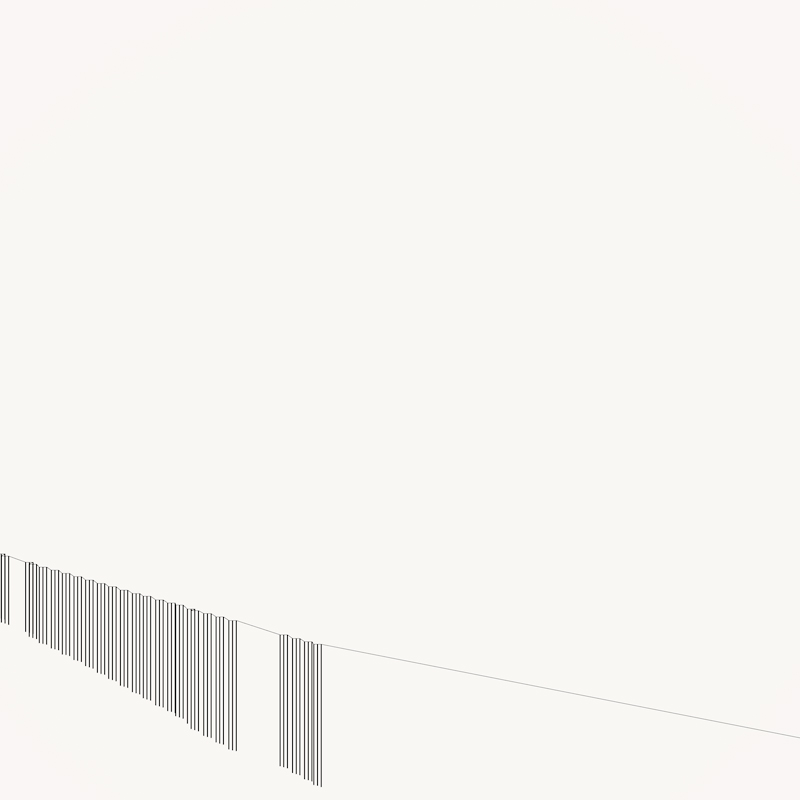
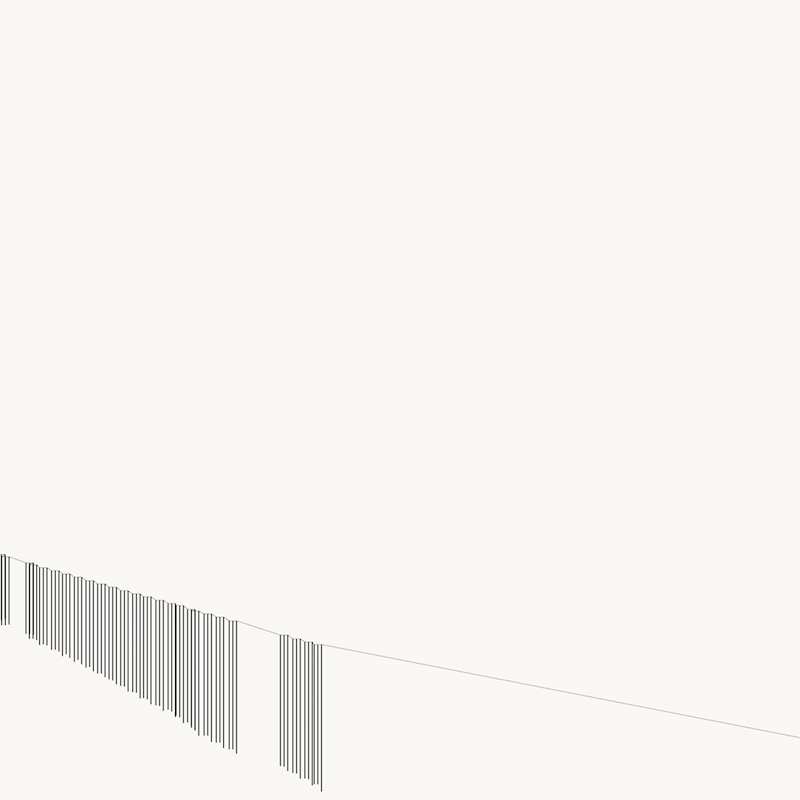
update

Changed region(s): [[0.0, 0.6875, 0.3125, 0.9375], [0.3438, 0.7812, 0.4062, 1.0]]

diff --git a/_posts/2017-12-24-gps-traces-in-lexical-space.md b/_posts/2017-12-24-gps-traces-in-lexical-space.md
@@ -7,10 +7,20 @@ images:
   - ext:    02_20171223_00.png
     width:  1200
     height: 750
-  - ext:    01_20171223_01_B.png
+    cap:    7.04 mi.
+  - ext:    03_20171224_04.png
     width:  1200
     height: 750
+    cap:    21.38 mi.
+  - ext:    04_20171224_00.png
+    width:  1200
+    height: 750
+    cap:    11.51 mi.
+  - ext:    01_20171223_01.png
+    width:  1200
+    height: 750
+    cap:    26.29 mi.
 tags:
   - static
 ---
-GPS traces translated into [what3words](https://what3words.com/) addresses, rendered using the calculated [Levenshtein distance](https://en.wikipedia.org/wiki/Levenshtein_distance) between each trigram.
+GPS traces translated into [what3words](https://what3words.com/) addresses, rendered to accrue the calculated [Levenshtein distance](https://en.wikipedia.org/wiki/Levenshtein_distance) between the three indices of each w3w trigram.
